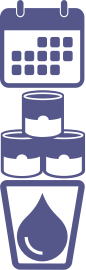
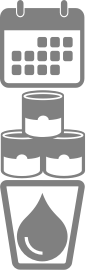
Changed site colors to mostly grayscale.  Also updated our map styles.

diff --git a/cascadiaprepared/static/css/app.css b/cascadiaprepared/static/css/app.css
@@ -1,7 +1,7 @@
 body {
   font-family: 'MetaSerifCompPro-Book W01 Rg', serif;
   background-color: #FFFFFF;
-  color: #55578B;
+  color: #868686;
   font-size: 20px;
   line-height: 1.3em;
 }
@@ -10,10 +10,10 @@ body {
 /* helper classes for colors and fonts */
 .white { color: #FFFFFF; }
 .white-bg { background-color: #FFF; }
-.orange { color: #FF9933; }
-.orange-bg { background-color: #FF9933; }
-.purple { color: #55578B; }
-.purple-bg { background-color: #55578B; }
+.orange { color: #B0B0B0; }
+.orange-bg { background-color: #B0B0B0; }
+.purple { color: #868686; }
+.purple-bg { background-color: #868686; }
 .bold { font-family: 'Meta Serif Offc W01 Extrabold'; }
 .sans-serif { font-family: 'HelveticaNeueW01-65Medi', sans-serif; }
 .sans-serif.bold { font-family: 'HelveticaNeueW01-95Blac'; }
@@ -45,7 +45,7 @@ body {
   line-height: 1.2em;
 }
 #location-text {
-  color: #55578B;
+  color: #868686;
   font-family: 'Meta Serif Offc W01 Extrabold';
   font-size: 18px;
   line-height: 1.3em;
@@ -56,10 +56,10 @@ body {
   border-color: #999;
   color: #999;
 }
-::-webkit-input-placeholder { color: #55578B; }
-:-moz-placeholder { color: #55578B; }
-::-moz-placeholder { color: #55578B; }
-:-ms-input-placeholder { color: #55578B; }
+::-webkit-input-placeholder { color: #868686; }
+:-moz-placeholder { color: #868686; }
+::-moz-placeholder { color: #868686; }
+:-ms-input-placeholder { color: #868686; }
 .form-icon-button {
   width: 7.33%;
 }
@@ -107,7 +107,7 @@ body {
   top: 100%;
   left: 50%;
   border: solid transparent;
-  border-color: #FF9933 rgba(255, 255, 255, 0) rgba(255, 255, 255, 0) rgba(255, 255, 255, 0);
+  border-color: #B0B0B0 rgba(255, 255, 255, 0) rgba(255, 255, 255, 0) rgba(255, 255, 255, 0);
   border-width: 43px 113px 0 113px;
   content: " ";
   height: 0;
@@ -195,6 +195,7 @@ body {
   font-size: 50px;
   line-height: .9em;
   margin: 0 15px;
+  color: #FF9933;
 }
 .supply-kit .text-label {
   padding-top: .2em;
@@ -238,13 +239,13 @@ body {
 }
 .social-icon.twitter { background-position: -32px 0; }
 .social-icon.email { background-position: -64px 0; }
-.social-icon:hover { background-color: #A6A7C4; }
+.social-icon:hover { background-color: #B0B0B0; }
 #geek-bar a {
   text-transform: uppercase;
   color: #FFFFFF;
 }
 #geek-bar a:hover {
-  color: #55578B;
+  color: #666666;
 }
 #geek-bar a:active {
   color: #FFFFFF;
@@ -271,11 +272,12 @@ body {
 
 /* overriding foundation (should use sass/scss/less instead!) */
 a { color: #FF9933; }
-a:hover { color: #55578B; }
-.orange-bg a { color: #55578B; }
+a:hover { color: #666666; }
+.orange-bg a { color: #B0B0B0; }
 .orange-bg a:hover { color: #FFFFFF; }
 a.button { background-color: #FF9933; }
-a.button:hover { background-color: #A6A7C4; }
+a.button:hover,
+a.button:focus { background-color: #B0B0B0; }
 a.button.disabled { background-color: #999; }
 
 

diff --git a/cascadiaprepared/static/js/app.js b/cascadiaprepared/static/js/app.js
@@ -40,17 +40,18 @@ $( document ).ready(function() {
     keyboard: false,
     attributionControl: false
   }).setView([lat,lng], zoom);
-  L.esri.basemapLayer('Gray',{ detectRetina: true }).addTo(map);
-  L.esri.basemapLayer('GrayLabels',{ detectRetina: true }).addTo(map);
+  L.esri.basemapLayer('Topographic',{ detectRetina: true }).addTo(map);
   document.getElementById('map').style.cursor='default';
-  var icon = new L.Icon.Default;
-  icon.options.iconUrl = "aftershock/static/img/marker-icon.png";
-  var marker = L.marker([lat,lng], {
-    icon: icon,
-    clickable: false, 
-    keyboard: false
-  }).addTo(map);
-
+  if (zoom > 10) {
+    var icon = new L.Icon.Default;
+    icon.options.iconUrl = "aftershock/static/img/marker-icon.png";
+    var marker = L.marker([lat,lng], {
+      icon: icon,
+      clickable: false, 
+      keyboard: false
+    }).addTo(map);
+  }
+  
   // grab and set any previously entered query text
   var loc = getURLParameter('loc');
   var location_query_text = (loc) ? decodeURIComponent(loc) : lat + "," + lng;
